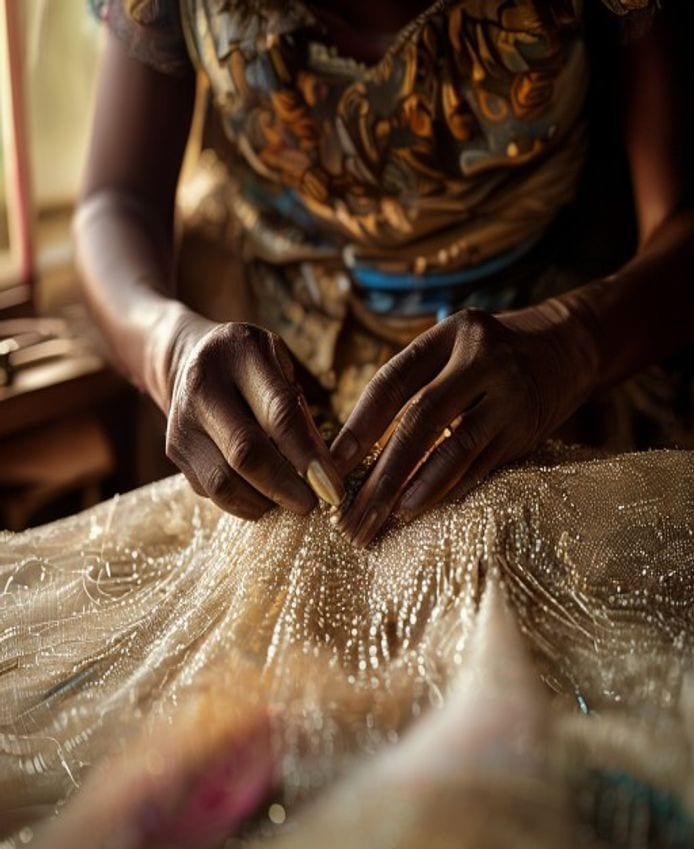
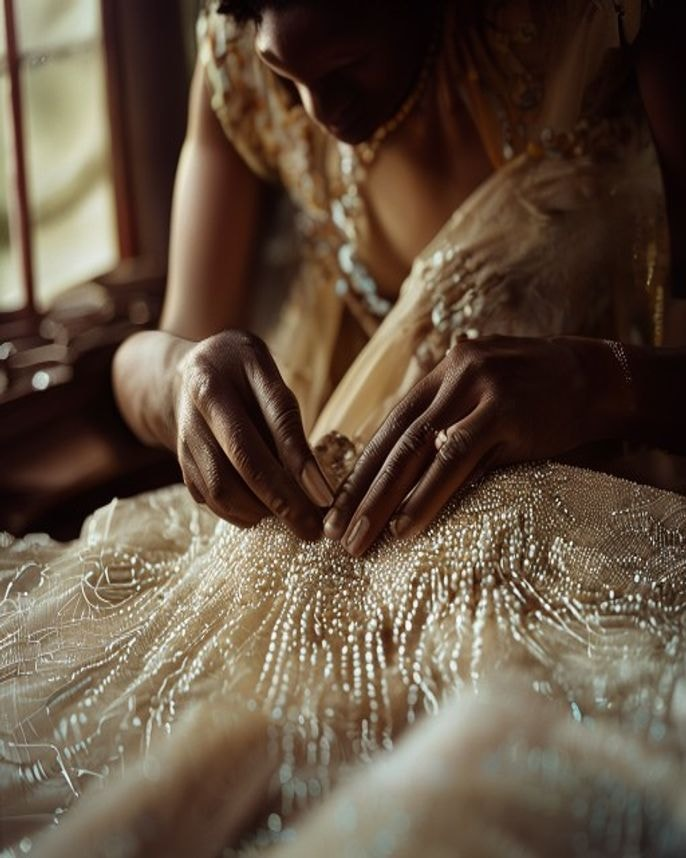
HD AI images — flux-realism, larger dims, editorial prompts
Re-fetched all 14 images at higher quality:
- Model: flux → flux-realism (Pollinations photorealistic variant)
- Dims: hero 1400x1750 → 1600x2000; looks 900x1200 → 1200x1600;
  atelier shots bumped accordingly
- Prompts now append a Vogue-editorial style block (Hasselblad H6D,
  85mm portrait lens, soft natural light, magazine cover quality,
  cinematic, color-graded)
- JPEG quality 82 → 90 (mozjpeg progressive)

Total cache size ~1.1 MB across 14 files.

diff --git a/scripts/preload-images.js b/scripts/preload-images.js
@@ -1,39 +1,58 @@
-// Pre-fetch every AI image listed in lib/images.js and save it as an
-// optimized JPEG in public/looks/. Pollinations generates each on demand
-// (slow on the first hit), so we cache locally to avoid runtime latency
-// + dependency on a free third-party API.
+// Pre-fetch every AI image listed in the manifest below and save it as
+// an optimized JPEG in public/looks/. Pollinations generates each on
+// demand (slow on first hit), so we cache locally to avoid runtime
+// latency + dependency on a free third-party API.
 //
 // Run:  node scripts/preload-images.js
-// Re-run anytime; it skips files that already exist.
+// Re-run anytime; skips files that already exist. To force a re-fetch,
+// delete public/looks/ first.
 
 const fs = require("node:fs/promises");
 const path = require("node:path");
 const sharp = require("sharp");
 
-// Mirror of lib/images.js — the script can't import the ES module
-// without bundler config. Keep the two in sync (or extract to JSON).
+// Photography style modifiers appended to every prompt. Pulls AI output
+// closer to editorial fashion photography (vs the slightly cartoony
+// default flux look).
+const STYLE = "Vogue editorial fashion photography, shot on Hasselblad H6D, 85mm portrait lens, soft natural light, sharp focus, ultra high resolution, magazine cover quality, color-graded, cinematic";
+const HD_MODEL = "flux-realism"; // photorealistic variant
+const QUALITY = 90;
+
 const MANIFEST = [
-  { file: "hero.jpg",            w: 1400, h: 1750, seed: 11, prompt: "elegant African bride in flowing ivory silk wedding gown, full body editorial fashion photography, soft natural light, hand-stitched detailing, cinematic, high fashion" },
-  { file: "bridal-pearl.jpg",    w: 900,  h: 1200, seed: 21, prompt: "African bride in minimalist ivory silk satin slip wedding dress, full body editorial fashion photography, soft natural light, clean studio backdrop" },
-  { file: "bridal-iris.jpg",     w: 900,  h: 1200, seed: 22, prompt: "African bride in white lace mermaid wedding gown with intricate hand-cut lace details, full body fashion photography, soft natural light, elegant" },
-  { file: "bridal-lily.jpg",     w: 900,  h: 1200, seed: 41, prompt: "African bride in dramatic beaded silk tulle ball gown wedding dress, full body editorial fashion photography, soft light, elegant" },
-  { file: "bridal-imani.jpg",    w: 900,  h: 1200, seed: 42, prompt: "African bride in minimal A-line silk crepe wedding dress, modern bridal fashion photography, full body, clean architectural lines" },
-  { file: "bridal-naledi.jpg",   w: 900,  h: 1200, seed: 43, prompt: "African bride in elegant off-shoulder column wedding gown, mikado silk, structured bodice, full body editorial fashion photography" },
-  { file: "bridal-aurora.jpg",   w: 900,  h: 1200, seed: 44, prompt: "African bride in modern two-piece wedding dress with hand-pleated silk organza overskirt, contemporary bridal photography, full body" },
-  { file: "occasion-tasila.jpg", w: 900,  h: 1200, seed: 23, prompt: "African woman in elegant chitenge formal dress, vibrant traditional African wax print fabric, structured tailoring, full body fashion editorial, Lusaka Zambia style" },
-  { file: "occasion-mwana.jpg",  w: 900,  h: 1200, seed: 51, prompt: "elegant African woman in jewel-tone satin gala gown with cape sleeve, vibrant emerald and gold, full body editorial fashion photography, birthday celebration" },
-  { file: "occasion-bupe.jpg",   w: 900,  h: 1200, seed: 52, prompt: "African woman in chic cocktail dress with asymmetric silk crepe drape, evening reception look, full body fashion editorial photography" },
-  { file: "occasion-lerato.jpg", w: 900,  h: 1200, seed: 53, prompt: "African woman in elegant beaded silk midi dress with pearl details for bridal shower, soft pastel tone, full body fashion photography" },
-  { file: "bespoke-teaser.jpg",  w: 1100, h: 1300, seed: 31, prompt: "close-up of hands sewing white wedding gown silk fabric in atelier workshop, fashion design studio, beading and lace, warm natural light, editorial photography" },
-  { file: "bespoke-detail.jpg",  w: 900,  h: 1100, seed: 32, prompt: "close-up of African seamstress hands beading wedding gown silk fabric in atelier workshop, fashion design studio, warm natural light, editorial photography" },
-  { file: "founder.jpg",         w: 900,  h: 1150, seed: 71, prompt: "elegant African woman fashion designer in her atelier studio surrounded by fabric and dressforms, professional portrait, warm natural light, editorial fashion photography, Lusaka" },
+  { file: "hero.jpg",            w: 1600, h: 2000, seed: 11,
+    prompt: `elegant African bride in flowing ivory silk wedding gown, full body, hand-stitched lace detailing, ethereal, ${STYLE}` },
+  { file: "bridal-pearl.jpg",    w: 1200, h: 1600, seed: 21,
+    prompt: `stunning African bride in minimalist ivory silk satin slip wedding dress, full body portrait, clean ivory studio backdrop, ${STYLE}` },
+  { file: "bridal-iris.jpg",     w: 1200, h: 1600, seed: 22,
+    prompt: `African bride in white lace mermaid wedding gown with intricate hand-cut Chantilly lace details, full body, soft window light, elegant pose, ${STYLE}` },
+  { file: "bridal-lily.jpg",     w: 1200, h: 1600, seed: 41,
+    prompt: `African bride in dramatic beaded silk tulle ball gown wedding dress, voluminous skirt, intricate hand beadwork catching the light, full body, ${STYLE}` },
+  { file: "bridal-imani.jpg",    w: 1200, h: 1600, seed: 42,
+    prompt: `African bride in minimal A-line silk crepe wedding dress, modern architectural lines, full body, contemporary bridal couture, ${STYLE}` },
+  { file: "bridal-naledi.jpg",   w: 1200, h: 1600, seed: 43,
+    prompt: `African bride in elegant off-shoulder column wedding gown, mikado silk, structured bodice, full body, statuesque, ${STYLE}` },
+  { file: "bridal-aurora.jpg",   w: 1200, h: 1600, seed: 44,
+    prompt: `African bride in modern two-piece wedding dress with hand-pleated silk organza overskirt, contemporary couture, full body, fashion-forward, ${STYLE}` },
+  { file: "occasion-tasila.jpg", w: 1200, h: 1600, seed: 23,
+    prompt: `elegant African woman in regal chitenge formal dress, vibrant traditional African wax print fabric, structured tailoring with pleated detailing, full body, golden-hour light, Lusaka Zambia editorial, ${STYLE}` },
+  { file: "occasion-mwana.jpg",  w: 1200, h: 1600, seed: 51,
+    prompt: `elegant African woman in jewel-tone emerald satin gala gown with statement cape sleeve, full body, opulent, ${STYLE}` },
+  { file: "occasion-bupe.jpg",   w: 1200, h: 1600, seed: 52,
+    prompt: `chic African woman in cocktail dress with asymmetric silk crepe drape, deep wine tone, evening reception, full body, modern, ${STYLE}` },
+  { file: "occasion-lerato.jpg", w: 1200, h: 1600, seed: 53,
+    prompt: `African woman in elegant beaded silk midi dress with pearl-detail neckline for bridal shower, soft blush palette, full body, ${STYLE}` },
+  { file: "bespoke-teaser.jpg",  w: 1400, h: 1700, seed: 31,
+    prompt: `intimate close-up of skilled hands sewing white wedding gown silk fabric on a tailor's table in atelier workshop, beading and lace details, warm window light, fashion atelier, ${STYLE}` },
+  { file: "bespoke-detail.jpg",  w: 1200, h: 1500, seed: 32,
+    prompt: `intimate close-up of African seamstress hands hand-beading wedding gown silk fabric in atelier workshop, intricate detail work, warm natural light, ${STYLE}` },
+  { file: "founder.jpg",         w: 1200, h: 1500, seed: 71,
+    prompt: `confident African woman fashion designer in her atelier studio surrounded by fabric bolts and dressforms, professional editorial portrait, warm natural window light, Lusaka, ${STYLE}` },
 ];
 
 const OUT = path.join(__dirname, "..", "public", "looks");
-const QUALITY = 82;
 
 function urlFor(m) {
-  return `https://image.pollinations.ai/prompt/${encodeURIComponent(m.prompt)}?width=${m.w}&height=${m.h}&seed=${m.seed}&nologo=true&model=flux`;
+  return `https://image.pollinations.ai/prompt/${encodeURIComponent(m.prompt)}?width=${m.w}&height=${m.h}&seed=${m.seed}&nologo=true&model=${HD_MODEL}`;
 }
 
 async function exists(p) {
@@ -43,19 +62,21 @@ async function exists(p) {
 async function fetchOne(m) {
   const dst = path.join(OUT, m.file);
   if (await exists(dst)) {
-    console.log(`  · skip   ${m.file}  (already cached)`);
+    console.log(`  · skip   ${m.file}  (already cached — delete to re-fetch)`);
     return;
   }
   const url = urlFor(m);
-  console.log(`  · fetch  ${m.file}  ${m.w}x${m.h} seed=${m.seed}`);
-  // Pollinations can take 5-30s per first generation. Long timeout.
+  console.log(`  · fetch  ${m.file}  ${m.w}x${m.h}  seed=${m.seed}  model=${HD_MODEL}`);
   const controller = new AbortController();
-  const timeout = setTimeout(() => controller.abort(), 120_000);
-  const res = await fetch(url, { signal: controller.signal });
-  clearTimeout(timeout);
+  const timeout = setTimeout(() => controller.abort(), 180_000);
+  let res;
+  try {
+    res = await fetch(url, { signal: controller.signal });
+  } finally {
+    clearTimeout(timeout);
+  }
   if (!res.ok) throw new Error(`HTTP ${res.status} for ${m.file}`);
   const buf = Buffer.from(await res.arrayBuffer());
-  // Re-encode to a slightly smaller mozjpeg progressive, strip metadata.
   await sharp(buf)
     .jpeg({ quality: QUALITY, progressive: true, mozjpeg: true })
     .toFile(dst);
@@ -65,7 +86,7 @@ async function fetchOne(m) {
 
 (async () => {
   await fs.mkdir(OUT, { recursive: true });
-  console.log(`Preloading ${MANIFEST.length} images → ${path.relative(process.cwd(), OUT)}/`);
+  console.log(`Preloading ${MANIFEST.length} images → ${path.relative(process.cwd(), OUT)}/  (model: ${HD_MODEL}, quality: ${QUALITY})`);
   for (const m of MANIFEST) {
     try {
       await fetchOne(m);
